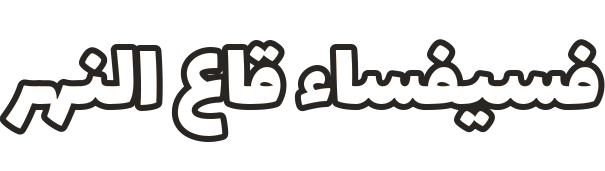
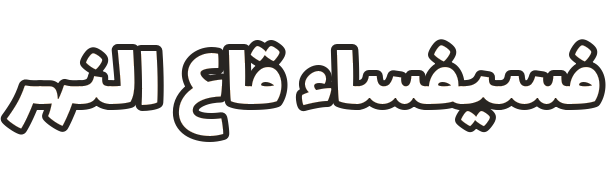
Arabic: smaller level title kept on screen, spaced level numbers; smaller window titles; bigger language buttons; DONE (تم) no longer cut
Claude-Session: https://claude.ai/code/session_01PLa1pRBxpEYJaiQfMqPxWP

diff --git a/src/menu/MenuMgr.c b/src/menu/MenuMgr.c
@@ -643,7 +643,7 @@ static void DialogueBox_LayoutOptions(Engine *engine, DialogueBox* db) {
         return;
 
     bool ar = Lang_Get() == LANG_AR;
-    const int btnW = 120, gap = -10, labelGap = 10;   /* short buttons (xscale 0) */
+    const int btnW = 180, gap = -10, labelGap = 10;   /* buttons with xscale 1 */
     int left  = db->pos.x + DB_OPTIONS_LABEL_X;       /* English labels start here */
     int right = db->pos.x - DB_OPTIONS_LABEL_X;       /* Arabic labels end here */
 
@@ -664,7 +664,7 @@ static void DialogueBox_LayoutOptions(Engine *engine, DialogueBox* db) {
     Button* en = &db->buttons[db->langBtn];
     Button* arb = &db->buttons[db->langBtn + 1];
     /* Kufi words are wider: smaller so they fit the short buttons */
-    en->textScale = arb->textScale = ar ? 0.6f : 0.8f;
+    en->textScale = arb->textScale = ar ? 0.75f : 0.95f;
     if (ar) {
         /* [ENGLISH][ARABIC] LANGUAGE  (mirror of the English row) */
         arb->pos.x = lab->pos.x - labelGap - btnW;
@@ -751,7 +751,7 @@ DialogueBox* DialogueBox_CreateOptions(Engine *engine) {
         Button b;
         Button_Init(&b);
         Button_SetText(&b, langs[i]);
-        b.xscale = 0;  /* short button: 120 px */
+        b.xscale = 1;  /* 180 px */
         b.textScale = 0.8f;
         b.pos.x = 0;   /* placed by DialogueBox_LayoutOptions */
         b.pos.y = slSnd.pos.y + 52;

diff --git a/src/gameplay/Game.c b/src/gameplay/Game.c
@@ -809,8 +809,16 @@ void Game_DrawIntro(Engine *engine, Game* game) {
     Engine_DrawTextExtScale(engine, buff, FONT_NATIVE_ALIEN_EXT_16, game->subHeaderFontScale, color, false, true, 
         WINDOW_WIDTH - 250, WINDOW_HEIGHT - 95);
 
-    sprintf(buff, "LEVEL %d-%d", game->lvlID + 1, game->difficulty + 1);
+    if (Lang_Get() == LANG_AR)
+        sprintf(buff, "LEVEL %d - %d", game->lvlID + 1, game->difficulty + 1);
+    else
+        sprintf(buff, "LEVEL %d-%d", game->lvlID + 1, game->difficulty + 1);
+    /* keep the whole title on the screen (Arabic is wider) */
+    float hx = WINDOW_WIDTH - 250;
+    int hw = (int)(Engine_GetTextWidth(engine, buff, FONT_NATIVE_ALIEN_48) * game->headerFontScale);
+    if (hx + hw / 2 > WINDOW_WIDTH - 30)
+        hx = WINDOW_WIDTH - 30 - hw / 2;
     Engine_DrawTextExtScale(engine, buff, FONT_NATIVE_ALIEN_48, game->headerFontScale, color, false, true, 
-        WINDOW_WIDTH - 250, WINDOW_HEIGHT - 200);
+        hx, WINDOW_HEIGHT - 200);
     return;
 }

diff --git a/src/global/Lang.c b/src/global/Lang.c
@@ -158,10 +158,11 @@ static LangText* Lang_Find(const char* str, const char** rest) {
 static float Lang_Zoom(Engine* engine, LangText* t, int fontID, float scale) {
     int f = (fontID >= 0 && fontID < LANG_FONTS) ? fontID : 1;
     float capH = s_capH[f] * engine->scale_y * scale;
-    bool small = capH < 25;
+    bool small = s_capH[f] * engine->scale_y < 25;   /* by the font, not the zoom */
     /* Kufi letters are short: bigger, above all on the small button text.
        The clear font is tall: same size as the English letters. */
-    float size = (t->style == 'K') ? (small ? 1.7f : 1.25f) : (small ? 1.0f : 1.1f);
+    bool big = s_capH[f] > 50;   /* the huge LEVEL title in the game */
+    float size = (t->style == 'K') ? (small ? 1.7f : 0.95f) : (small ? 1.0f : (big ? 0.42f : 1.1f));
     if (t->style != 'K' && fontID == FONT_CANCUN_12)
         size = 0.72f;   /* results window: rows close together */
     return capH * size / (t->alefH > 0 ? t->alefH : 1);

diff --git a/tools/make_arabic.py b/tools/make_arabic.py
@@ -52,9 +52,9 @@ def main():
         ab = font.getbbox('ا', direction='rtl')
         alef_h = ab[3] - ab[1]
 
-        tmp = Image.new('LA', (SIZE * len(ar) + 200, H), (0, 0))
+        tmp = Image.new('LA', (SIZE * len(ar) + 400, H), (0, 0))
         d = ImageDraw.Draw(tmp)
-        d.text((pad, pad + ascent), ar, font=font, anchor='ls', direction='rtl',
+        d.text((pad + 100, pad + ascent), ar, font=font, anchor='ls', direction='rtl',
                fill=(255, 255), stroke_width=STROKE, stroke_fill=(40, 255))
         bbox = tmp.getbbox()
         x0, x1 = bbox[0], bbox[2]
